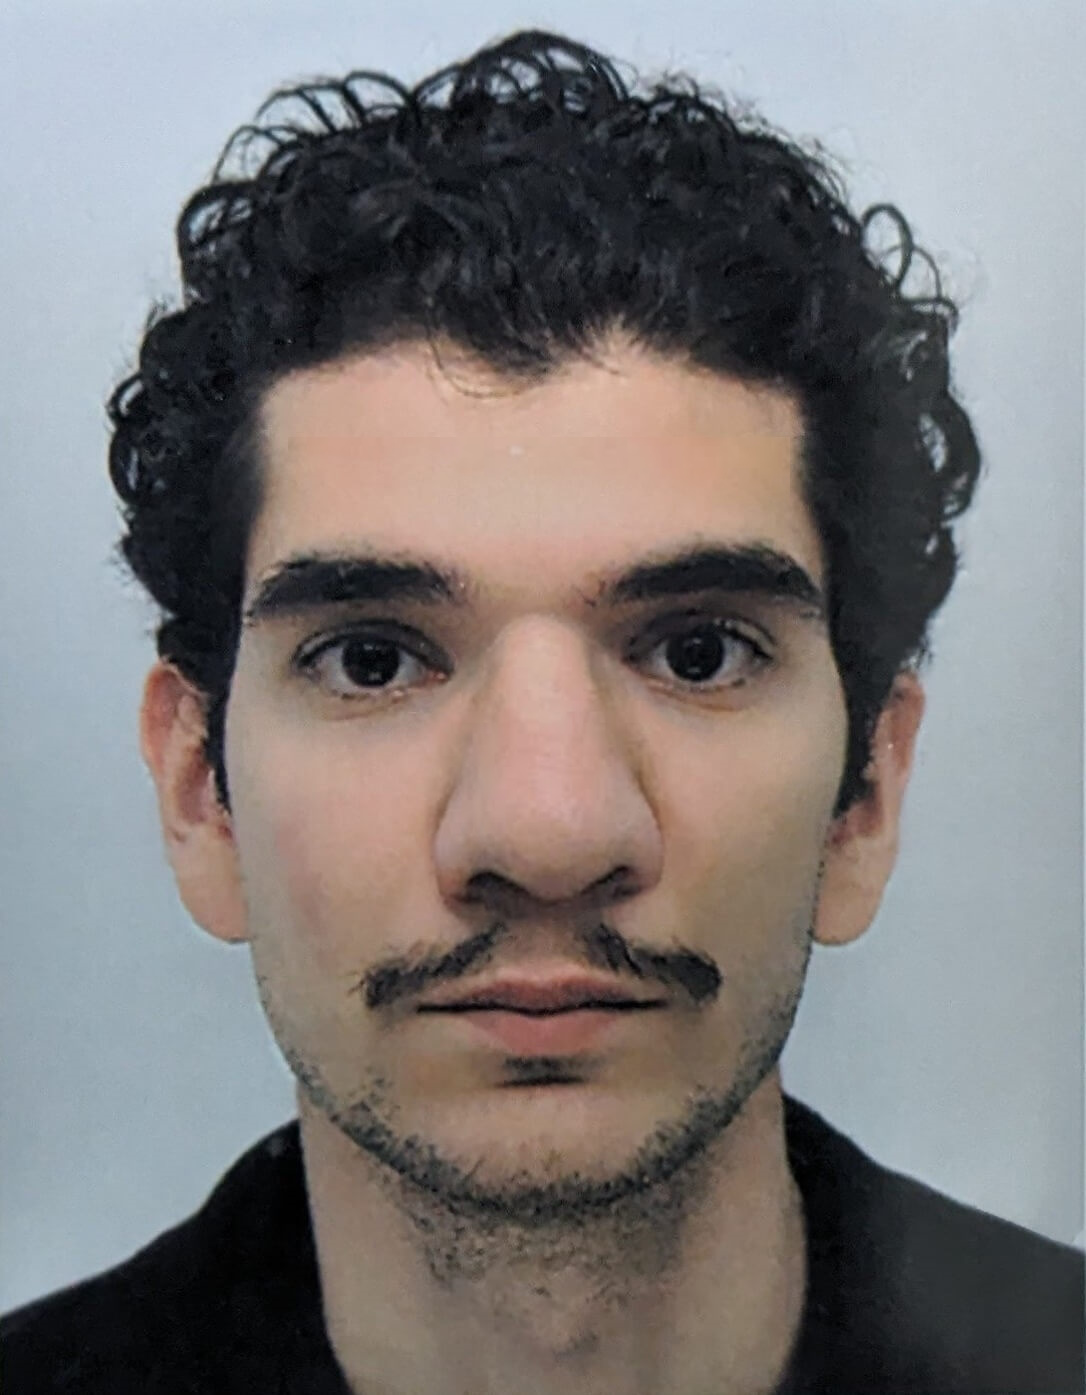
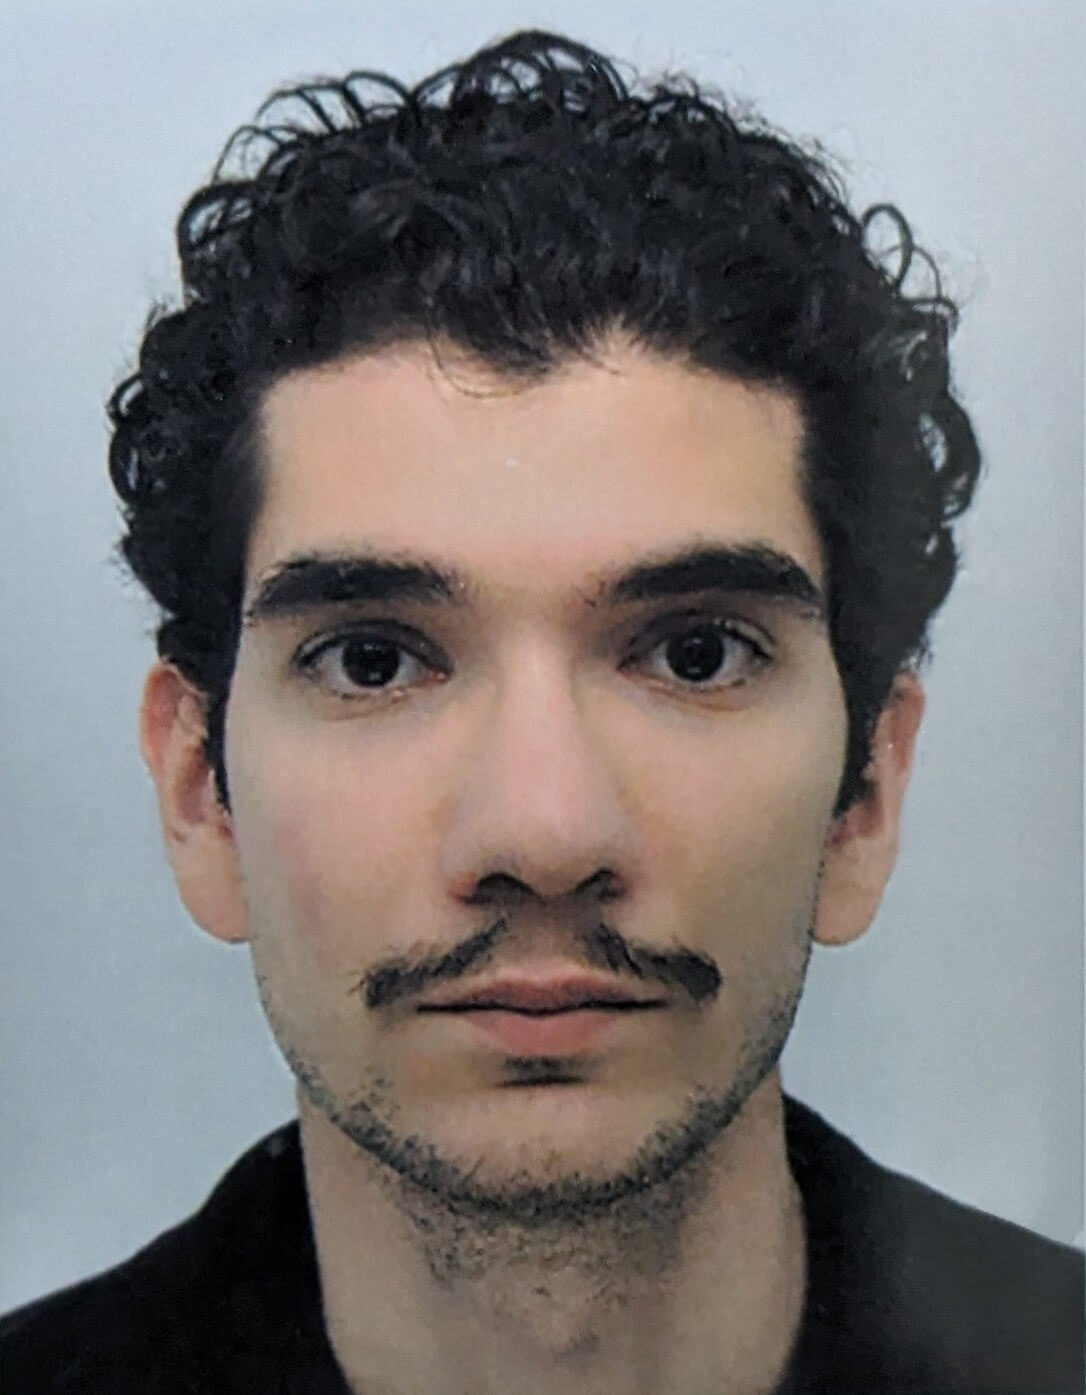
test

Changed region(s): [[0.4862, 0.4315, 0.6077, 0.5857], [0.395, 0.524, 0.4862, 0.6781], [0.5166, 0.6165, 0.6077, 0.6473]]

diff --git a/script.js b/script.js
@@ -173,6 +173,18 @@ function initializeSliders() {
 
 document.addEventListener('DOMContentLoaded', initializeSliders);
 
+// Change photo on fullscreen
+function updatePhotoOnFullscreen() {
+    const isFs = document.fullscreenElement || (window.innerWidth === screen.width && window.innerHeight === screen.height);
+    const mainPhoto = document.getElementById('main-photo');
+    if (mainPhoto) {
+        mainPhoto.src = isFs ? './img/photo_bignose.jpg' : './img/photo.jpg';
+    }
+}
+window.addEventListener('resize', updatePhotoOnFullscreen);
+document.addEventListener('fullscreenchange', updatePhotoOnFullscreen);
+document.addEventListener('DOMContentLoaded', updatePhotoOnFullscreen);
+
 // Fullscreen functionality
 // Fullscreen functionality
 function initializeFullscreen() {

diff --git a/index.html b/index.html
@@ -53,7 +53,7 @@
 					<div class="page-content">
 						<div class="info-container">
 							<div class="info-main">
-								<img src="./img/photo.jpg">
+								<img id="main-photo" src="./img/photo.jpg">
 								<div class="info-text">
 									<p>Narek Bagratuni is a musician and multimedia artist, born in Yerevan in 1997.</p>
 									<p>Trained as a professional pianist at the Rimsky-Korsakov Saint Petersburg State